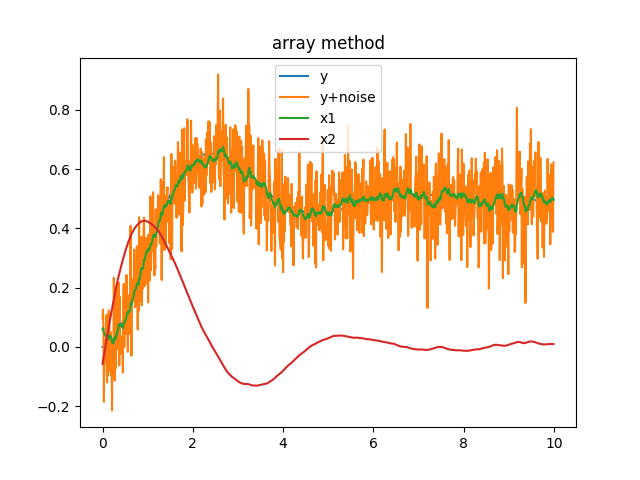
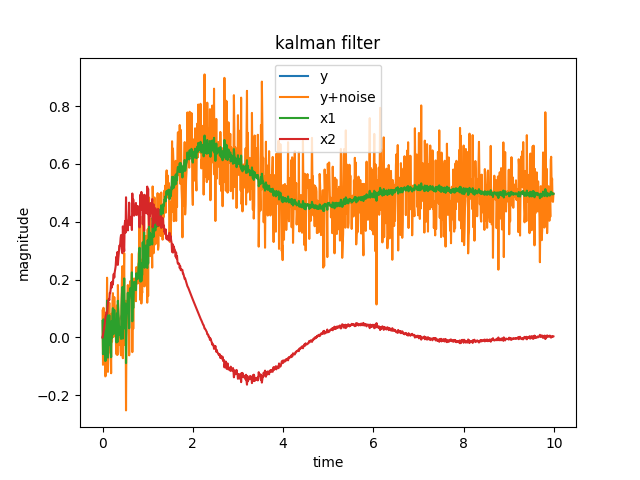
update kalman

diff --git a/kalman.py b/kalman.py
@@ -20,7 +20,6 @@ sys = control.ss(A, B, C, D)
 # reference
 dt = 0.01
 time = np.arange(0, 10, dt)
-print(f'time: {np.shape(time)}')
 ref = F*np.ones(np.shape(time))
 
 # tuning matrix
@@ -50,13 +49,19 @@ Pdot = np.zeros((len(time),2,2))
 x[:,[0]] = x0
 P[[0],:,:] = P0
 for i in range(0, len(time)-1):
-    xdot[:,[i]] = A@x[:,[i]] + B@ref[i].reshape(1,1)
-    P[[i],:,:] = A@P[[i],:,:]@A.T + Q
+    # predict
+    # xdot[:,[i]] = A@x[:,[i]] + B@ref[i].reshape(1,1)
+    # P[[i],:,:] = A@P[[i],:,:]@A.T + Q
+    F = np.eye(len(A)) + A*dt
+    x[:,[i+1]] = F@x[:,[i]] + B*ref[i]*dt
+    P[[i+1],:,:] = F@P[[i],:,:]@F.T + Q*dt
+    # update
     K = P[[i],:,:]@C.T@np.linalg.pinv(C@P[[i],:,:]@C.T + R)
     x[:,[i]] = x[:,[i]] + K@(youtn[i].reshape(1,1) - C@x[:,[i]])
     P[[i],:,:] = P[[i],:,:] - K@C@P[[i],:,:]
     # integrate
-    x[:,[i+1]] = x[:,[i]] + xdot[:,[i]]*dt
+    # x[:,[i+1]] = x[:,[i]] + xdot[:,[i]]*dt
+
 
 # plotting
 plt.figure(1)

diff --git a/readme.md b/readme.md
@@ -4,10 +4,11 @@ Kalman filter is a two step process that first predicts the next state of the sy
 ![image](pics/kalman_diagram.PNG)
 
 # Predict step
+0. Initial estimates for $\hat{x_0}$ and $\hat{P_0}$
 
 $$F = e^{A*dt} \~= I+Adt$$
 
-predicted state estimate
+1. predicted next state estimate
 
 $$\dot{\hat{x}} = A\hat{x}+Bu$$
 
@@ -21,27 +22,27 @@ $$F = I + A*dt$$
 
 $$\hat{x}[k+1] = F\hat{x}[k] + dtBu[k]$$
 
-predicted covariance estimate
+2. predicted next covariance estimate
 
 $$\hat{P}[k+1] = F\hat{P}[k]F.T + dtQ$$
 
 # Update step
 
-calculate Kalman gain
+1. calculate current Kalman gain
 
 $$K = \hat{P}[k]C.T/(C\hat{P}[k]C.T + R)$$
 
 Kalman gain is a raio of 
 
-uncertainty in estimate covariance/ (uncertainty in estimate covariance + uncertainty in measurement)
+uncertainty in estimate covariance / (uncertainty in estimate covariance + uncertainty in measurement)
 
-update state estimate
+2. update current state estimate
 
 $$\hat{x}[k] = \hat{x}[k] + K(y - C\hat{x}[k])$$
 
 Can see taking the difference between measurement y and the calculated state output $C\hat{x}$. Then taking a portion of the difference (Kalman gain) and adding it to the predicted state to find the final state
 
-update covariance estimate
+3. update current covariance estimate
 
 $$P[k] = (I - KC)\hat{P}[k]$$
 
@@ -56,13 +57,13 @@ $$\dot x = Ax + Bu$$
 $$y = Cx + Du$$
 
 where:
-x is the state vector, nx1\
-y is the output vector, qx1\
-u is the input/control vector, px1\
-A is the state(system) matrix, nxn\
-B is the input matrix, nxp\
-C is the output matrix, qxn\
-D is the feedforward matrix, qxp
+* x is the state vector, nx1
+* y is the output vector, qx1
+* u is the input/control vector, px1
+* A is the state(system) matrix, nxn
+* B is the input matrix, nxp
+* C is the output matrix, qxn
+* D is the feedforward matrix, qxp
 
 # Probability
 $x_n$ is each value in a list of values
@@ -81,13 +82,16 @@ $$\sigma = \sqrt{\frac{1}{N}\sum_{n=1}^N (x_n - \mu)^2}$$
 
 # Noise Covariances
 
-$\hat x$ is the state estimate\
-$\hat P$ is the covariance estimate\
-Kalman filter assumes that the noises are gaussian shape.\
-w is the process noise standard deviation\
-Q is the process noise variance\
-v is the sensor noise standard deviation\
-R is the sensor noise variance\
+* $\hat x$ is the state estimate
+* $\hat P$ is the covariance estimate
+
+Kalman filter assumes that the noises are gaussian shape.
+
+* w is the process noise standard deviation
+* Q is the process noise variance
+* v is the sensor noise standard deviation
+* R is the sensor noise variance
+
 High values for w means that the process noise is high and the kalman gain should favor the sensor measurement. While low values for w means that the process noise is low and the kalman gain should favor the calculated output. The same goes for v, the measurement noise. 
 
 # Plots
@@ -109,7 +113,7 @@ With w = 0 and v = 1
 
 Can see with high sensor noise, the kalman gain favors the calculated output and the estimated states follows the y signal without noise.
 
-with noise turned off.
+With no disturbance or noise.
 
 ![image](plots/response_predict.png)
 
